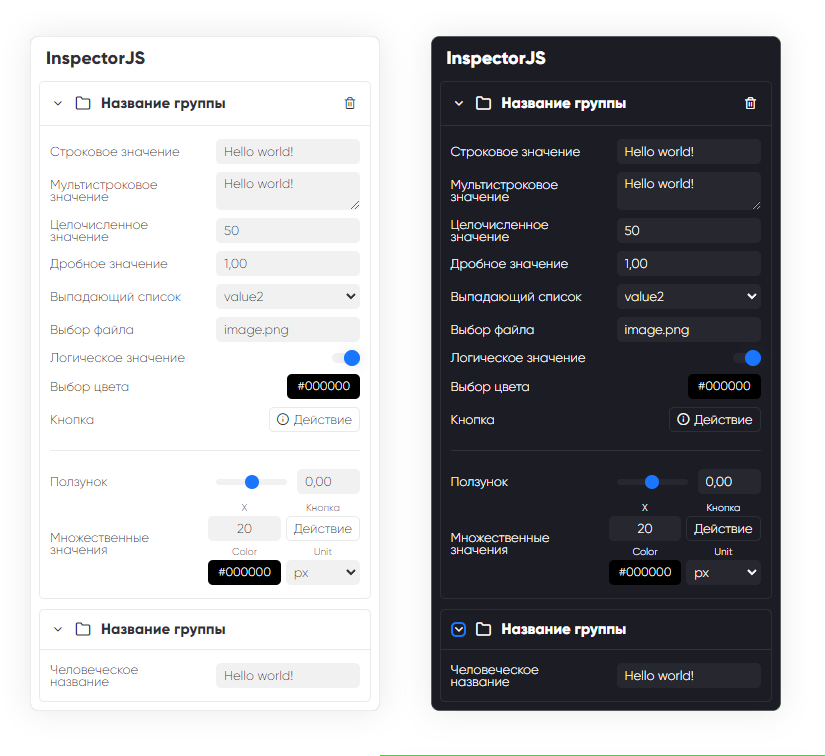
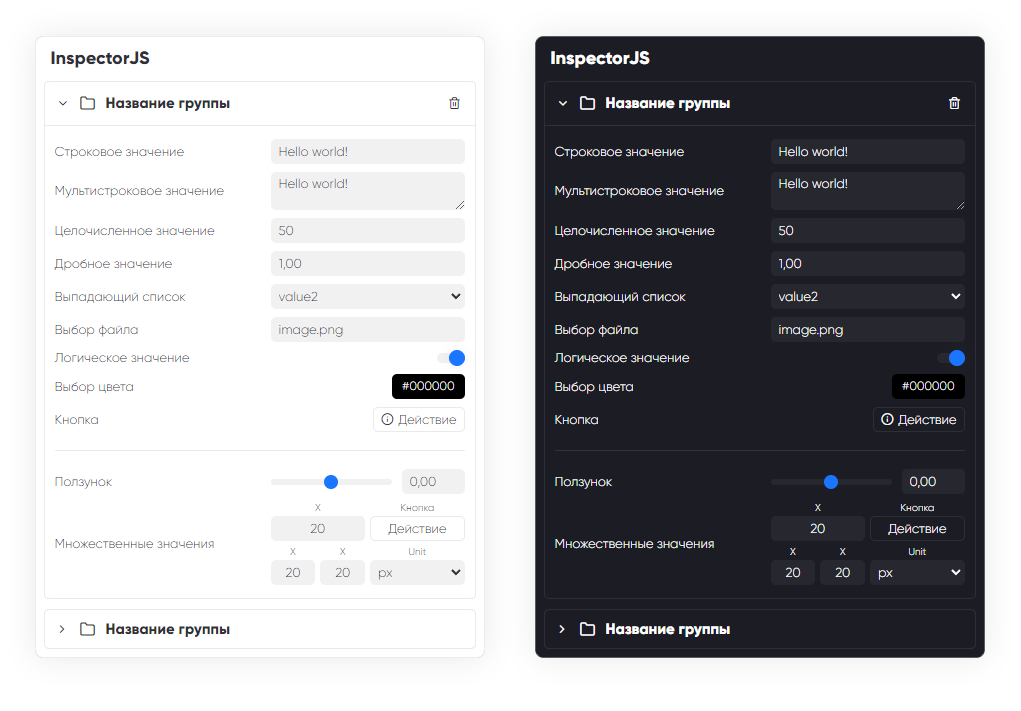
feat: group in group no limit

diff --git a/example/script.js b/example/script.js
@@ -25,7 +25,7 @@ document.addEventListener('DOMContentLoaded', function() {
           id: "rndString1", // ID свойства (default: randomString(32))
           name: "Строковое значение", // Название свойства (default: "Без названия")
           property: "param1", // Произвольное значение (default: undefined)
-          type: "string", // multiString | values | string | integer | float | boolean | color | file | select | slider (default: "string")
+          type: "string", // multiString | values | button | string | integer | float | boolean | color | file | select | slider (default: "string")
           value: "Hello world!", // Значение свойства (default: "")
           readonly: false, // Флаг только для чтения (default: false)
           change: (value, property, elem, id, e) => {
@@ -36,7 +36,7 @@ document.addEventListener('DOMContentLoaded', function() {
           id: "rndString1", // ID свойства (default: randomString(32))
           name: "Мультистроковое значение", // Название свойства (default: "Без названия")
           property: "param1", // Произвольное значение (default: undefined)
-          type: "multiString", // multiString | values | string | integer | float | boolean | color | file | select | slider (default: "string")
+          type: "multiString", // multiString | values | button | string | integer | float | boolean | color | file | select | slider (default: "string")
           value: "Hello world!", // Значение свойства (default: "")
           readonly: false, // Флаг только для чтения (default: false)
           change: (value, property, elem, id, e) => {
@@ -47,7 +47,7 @@ document.addEventListener('DOMContentLoaded', function() {
           id: "rndString2", // ID свойства (default: randomString(32))
           name: "Целочисленное значение", // Название свойства (default: "Без названия")
           property: "param2", // Произвольное значение (default: undefined)
-          type: "integer", // multiString | values | string | integer | float | boolean | color | file | select | slider (default: "string")
+          type: "integer", // multiString | values | button | string | integer | float | boolean | color | file | select | slider (default: "string")
           value: 50, // Значение свойства (default: 0)
           readonly: false, // Флаг только для чтения (default: false)
           min: -50, // Минимальное значение (default: 0)
@@ -61,7 +61,7 @@ document.addEventListener('DOMContentLoaded', function() {
           id: "rndString3", // ID свойства (default: randomString(32))
           name: "Дробное значение", // Название свойства (default: "Без названия")
           property: "param3", // Произвольное значение (default: undefined)
-          type: "float", // multiString | values | string | integer | float | boolean | color | file | select | slider (default: "string")
+          type: "float", // multiString | values | button | string | integer | float | boolean | color | file | select | slider (default: "string")
           value: 1, // Значение свойства (default: 0)
           readonly: false, // Флаг только для чтения (default: false)
           min: 0, // Минимальное значение (default: undefined)
@@ -75,7 +75,7 @@ document.addEventListener('DOMContentLoaded', function() {
           id: "rndString4", // ID свойства (default: randomString(32))
           name: "Выпадающий список", // Название свойства (default: "Без названия")
           property: "param4", // Произвольное значение (default: undefined)
-          type: "select", // multiString | values | string | integer | float | boolean | color | file | select | slider (default: "string")
+          type: "select", // multiString | values | button | string | integer | float | boolean | color | file | select | slider (default: "string")
           value: "key2", // Значение свойства (default: undefined)
           readonly: false, // Флаг только для чтения (default: false)
           options: {
@@ -92,7 +92,7 @@ document.addEventListener('DOMContentLoaded', function() {
           id: "rndString5", // ID свойства (default: randomString(32))
           name: "Выбор файла", // Название свойства (default: "Без названия")
           property: "param5", // Произвольное значение (default: undefined)
-          type: "file", // multiString | values | string | integer | float | boolean | color | file | select | slider (default: "string")
+          type: "file", // multiString | values | button | string | integer | float | boolean | color | file | select | slider (default: "string")
           value: "image.png", // Значение свойства (default: undefined)
           readonly: false, // Флаг только для чтения (default: false)
           change: (value, property, elem, id, e) => {
@@ -103,7 +103,7 @@ document.addEventListener('DOMContentLoaded', function() {
           id: "rndString6", // ID свойства (default: randomString(32))
           name: "Логическое значение", // Название свойства (default: "Без названия")
           property: "param6", // Произвольное значение (default: undefined)
-          type: "boolean", // multiString | values | string | integer | float | boolean | color | file | select | slider (default: "string")
+          type: "boolean", // multiString | values | button | string | integer | float | boolean | color | file | select | slider (default: "string")
           value: true, // Значение свойства (default: false)
           readonly: false, // Флаг только для чтения (default: false)
           change: (value, property, elem, id, e) => {
@@ -114,7 +114,7 @@ document.addEventListener('DOMContentLoaded', function() {
           id: "rndString7", // ID свойства (default: randomString(32))
           name: "Выбор цвета", // Название свойства (default: "Без названия")
           property: "param7", // Произвольное значение (default: undefined)
-          type: "color", // multiString | values | string | integer | float | boolean | color | file | select | slider (default: "string")
+          type: "color", // multiString | values | button | string | integer | float | boolean | color | file | select | slider (default: "string")
           value: "#000000", // Значение свойства (default: undefined)
           readonly: false, // Флаг только для чтения (default: false)
           change: (value, property, elem, id, e) => {
@@ -125,7 +125,7 @@ document.addEventListener('DOMContentLoaded', function() {
           id: "rndString17", // ID свойства (default: randomString(32))
           name: "Кнопка", // Название свойства (default: "Без названия")
           property: "param99", // Произвольное значение (default: undefined)
-          type: "button", // multiString | values | string | integer | float | boolean | color | file | select | slider (default: "string")
+          type: "button", // multiString | values | button | string | integer | float | boolean | color | file | select | slider (default: "string")
           icon: "icons-info", // Иконка кнопки (default: undefined)
           // bg: "#AA2F05", // Цвет фона кнопки (default: undefined)
           text: "Действие", // Значение свойства (default: undefined)
@@ -138,7 +138,7 @@ document.addEventListener('DOMContentLoaded', function() {
           id: "rndString8", // ID свойства (default: randomString(32))
           name: "Ползунок", // Название свойства (default: "Без названия")
           property: "param8", // Произвольное значение (default: undefined)
-          type: "slider", // multiString | values | string | integer | float | boolean | color | file | select | slider (default: "string")
+          type: "slider", // multiString | values | button | string | integer | float | boolean | color | file | select | slider (default: "string")
           value: 0, // Значение свойства (default: 0)
           step: 0.01, // Шаг изменения (default: 1)
           min: -100, // Минимальное значение (default: 0)
@@ -152,12 +152,12 @@ document.addEventListener('DOMContentLoaded', function() {
           id: "rndString9", // ID свойства (default: randomString(32))
           name: "Множественные значения", // Название свойства (default: "Без названия")
           property: "param9", // Произвольное значение (default: undefined)
-          type: "values", // multiString | values | string | integer | float | boolean | color | file | select | slider (default: "string")
+          type: "values", // multiString | values | button | string | integer | float | boolean | color | file | select | slider (default: "string")
           group: "2", // 1 | 2 | 3 | 4 | auto (default: "auto")
           value: [
             {
               name: "X", // Название свойства (default: "Без названия")
-              type: "float", // string | integer | float | color | select (default: "string")
+              type: "float", // string | integer | float | values | button | color | select (default: "string")
               id: "rndString911", // ID свойства (default: randomString(32))
               value: 20, // Значение свойства (default: 0)
               min: 0, // Минимальное значение (default: 0)
@@ -171,30 +171,51 @@ document.addEventListener('DOMContentLoaded', function() {
             {
               id: "rndString914", // ID свойства (default: randomString(32))
               name: "Кнопка", // Название свойства (default: "Без названия")
-              type: "button", // multiString | values | string | integer | float | boolean | color | file | select | slider (default: "string")
-              // icon: "icons-info", // Иконка кнопки (default: undefined)
-              // bg: "#AA2F05", // Цвет фона кнопки (default: undefined)
+              type: "button", // multiString | values | button | string | integer | float | boolean | color | file | select | slider (default: "string")
+              bg: "#AA2F05", // Цвет фона кнопки (default: undefined)
               text: "Действие", // Значение свойства (default: undefined)
               click: (property, values, elem, id, e) => {
                 console.log(property, values, elem, id, e);
               }, // Функция callback при изменении значения (default: undefined)
             },
             {
-              name: "Color", // Название свойства (default: "Без названия")
-              type: "color", // string | integer | float | color | select (default: "string")
-              id: "rndString912", // ID свойства (default: randomString(32))
-              value: undefined, // Значение свойства (default: 0)
-              min: 0, // Минимальное значение (default: 0)
-              max: 100, // Максимальное значение (default: 100)
-              step: 0.01, // Шаг изменения (default: 1)
-              readonly: false, // Флаг только для чтения (default: false)
-              change: (value, values, property, elem, id, e) => {
-                console.log(value, values, property, elem, id, e);
-              }, // Функция callback при изменении значения (default: undefined)
+              id: "rndString9", // ID свойства (default: randomString(32))
+              name: "Множественные значения", // Название свойства (default: "Без названия")
+              property: "param9", // Произвольное значение (default: undefined)
+              type: "values", // multiString | values | button | string | integer | float | boolean | color | file | select | slider (default: "string")
+              group: "2", // 1 | 2 | 3 | 4 | auto (default: "auto")
+              value: [
+                {
+                  name: "X", // Название свойства (default: "Без названия")
+                  type: "float", // string | integer | float | values | button | color | select (default: "string")
+                  id: "rndString9111", // ID свойства (default: randomString(32))
+                  value: 20, // Значение свойства (default: 0)
+                  min: 0, // Минимальное значение (default: 0)
+                  max: 100, // Максимальное значение (default: 100)
+                  step: 10, // Шаг изменения (default: 1)
+                  readonly: false, // Флаг только для чтения (default: false)
+                  change: (value, values, property, elem, id, e) => {
+                    console.log(value, values, property, elem, id, e);
+                  }, // Функция callback при изменении значения (default: undefined)
+                },
+                {
+                  name: "X", // Название свойства (default: "Без названия")
+                  type: "float", // string | integer | float | values | button | color | select (default: "string")
+                  id: "rndString9112", // ID свойства (default: randomString(32))
+                  value: 20, // Значение свойства (default: 0)
+                  min: 0, // Минимальное значение (default: 0)
+                  max: 100, // Максимальное значение (default: 100)
+                  step: 10, // Шаг изменения (default: 1)
+                  readonly: false, // Флаг только для чтения (default: false)
+                  change: (value, values, property, elem, id, e) => {
+                    console.log(value, values, property, elem, id, e);
+                  }, // Функция callback при изменении значения (default: undefined)
+                },
+              ], // Значение множественного свойства
             },
             {
               name: "Unit", // Название свойства (default: "Без названия")
-              type: "select", // string | integer | float | color | select (default: "string")
+              type: "select", // string | integer | float | values | button | color | select (default: "string")
               id: "rndString913", // ID свойства (default: randomString(32))
               value: "px", // Значение свойства (default: undefined)
               options: {

diff --git a/example/style.css b/example/style.css
@@ -153,7 +153,7 @@ div#content {
   border: 1px solid rgba(133, 133, 133, 0.173);
   border-radius: var(--radius-lg);
   box-shadow: var(--shadow);
-  max-width: 350px;
+  max-width: 450px;
   width: 100%;
   background-color: var(--bg1);
 }
@@ -420,6 +420,10 @@ inspectorjs_value:last-child {
   grid-template-columns: repeat(2, 1fr);
   gap: 5px;
   padding-left: 10px;
+}
+
+.inspectorjs_value_value[group] .inspectorjs_value_value[group]{
+  padding-left: 0px;
 }
 
 .inspectorjs_value_value[group="4"] {
@@ -720,7 +724,6 @@ input[type="color"] {
   width: 100% !important;
   max-width: 100% !important;
   min-width: 100% !important;
-  display: block;
 }
 
 .inspectorjs_value_value[group]>inspectorjs_value>.inspectorjs_value_value>input {
@@ -789,4 +792,7 @@ input[type="color"] {
 }
 .inspectorjs_value_value[group]>inspectorjs_value .inspectorjs_property_button * {
   word-break: normal;
+}
+.inspectorjs_value_value[group] .inspectorjs_property_button {
+  width: 100%;
 }

diff --git a/templates/create.js b/templates/create.js
@@ -972,7 +972,10 @@ export default class Create {
       }
     }
 
-    inspectorjs_value.appendChild(inspectorjs_value_property);
+    if (name != ""){
+      inspectorjs_value.appendChild(inspectorjs_value_property);
+    }
+    
     inspectorjs_value.appendChild(inspectorjs_value_value);
 
     return inspectorjs_value;
@@ -1038,6 +1041,15 @@ export default class Create {
         data.id,
         data.click,
         true,
+      );
+    } else if (data.type == "values") {
+      out = this.valueValues(
+        data.value,
+        "",
+        data.property,
+        data.group,
+        data.id,
+        data.change
       );
     } else {
       out = this.valueString(

diff --git a/README.md b/README.md
@@ -3,7 +3,7 @@
 ## Общее описание
 InspectorJS - это инструмент, который помогает создавать на веб-сайтах интерактивные панели для управления данными. Он предоставляет возможность добавлять разнообразные элементы управления, такие как кнопки, ползунки и выпадающие списки, чтобы пользователи могли легко взаимодействовать с информацией
 
-![Иллюстрация к проекту](https://raw.githubusercontent.com/official-inso/InspectorJS/main/example/assets/screen_full.png)
+![Иллюстрация к проекту](https://raw.githubusercontent.com/official-inso/InspectorJS/main/example/assets/screen.png)
 
 ## Вот несколько преимуществ, которые сделают ее полезной для вас:
 
